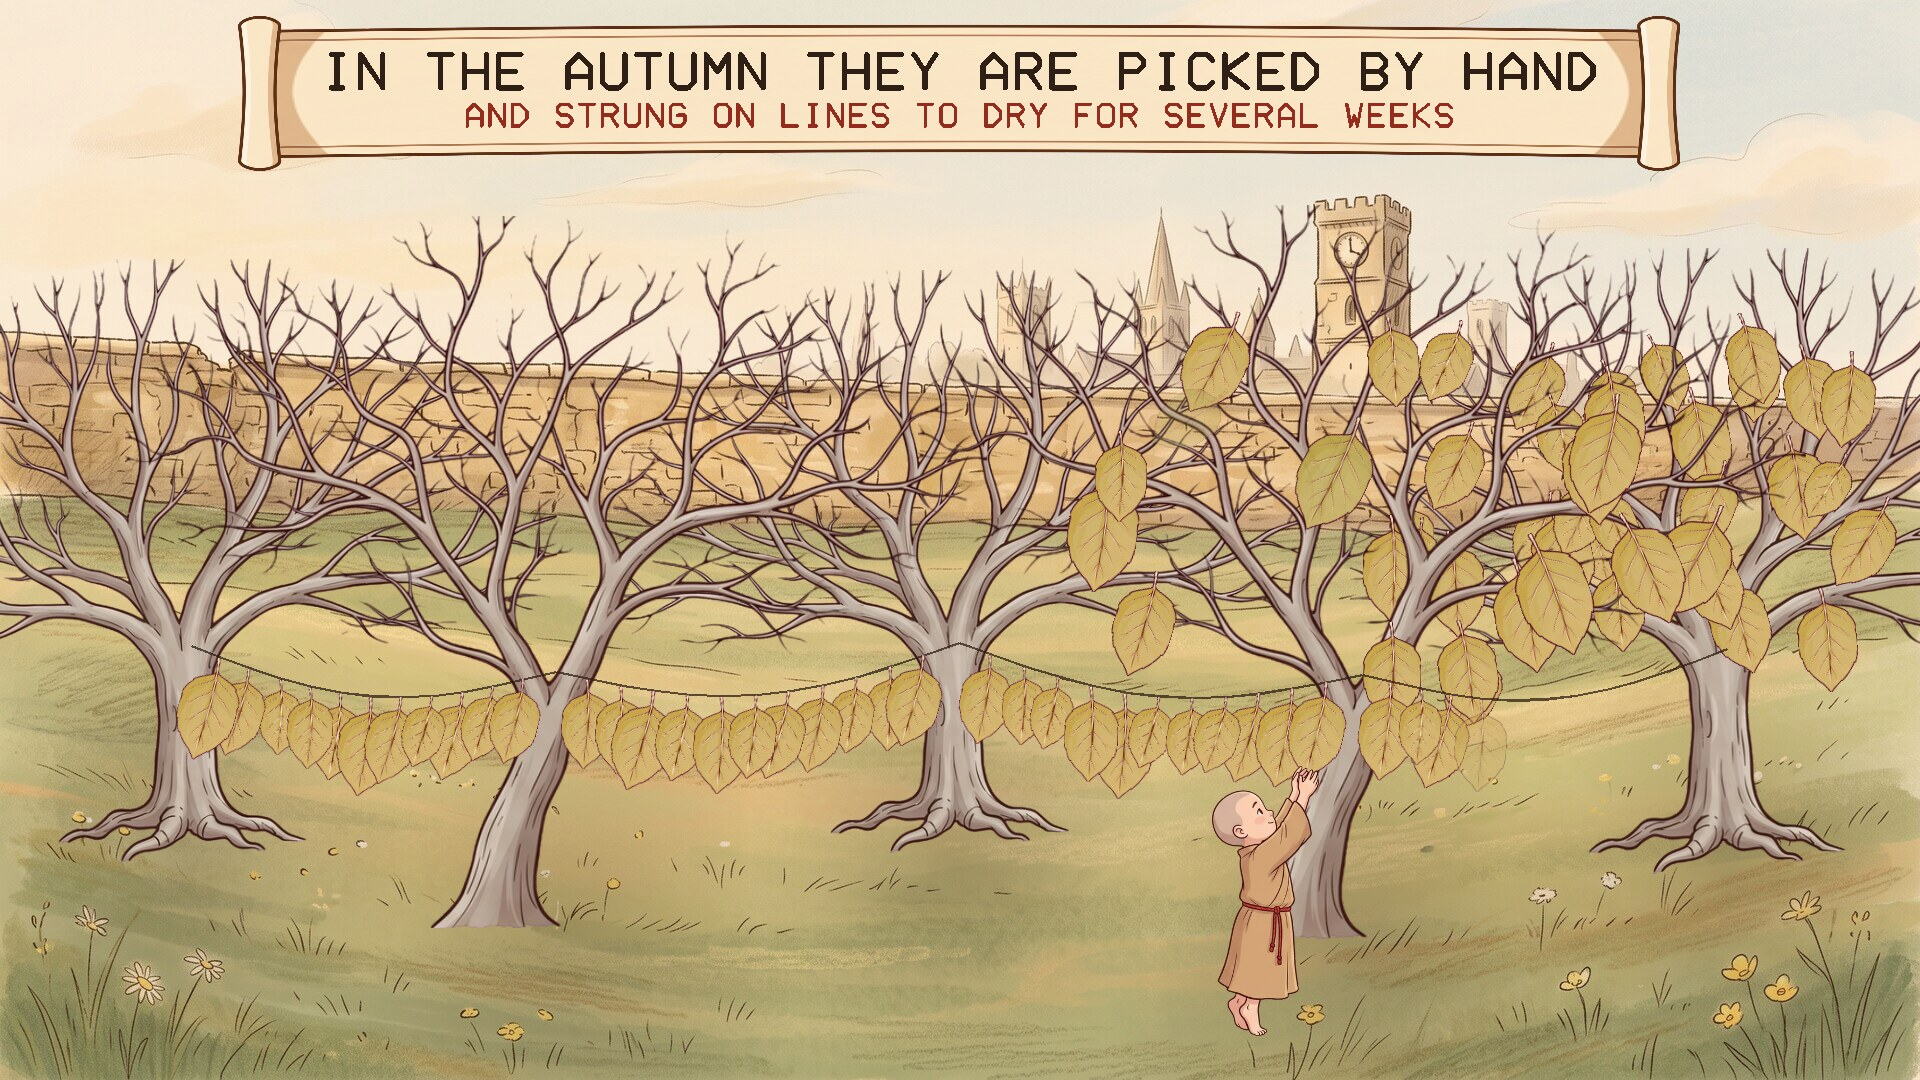
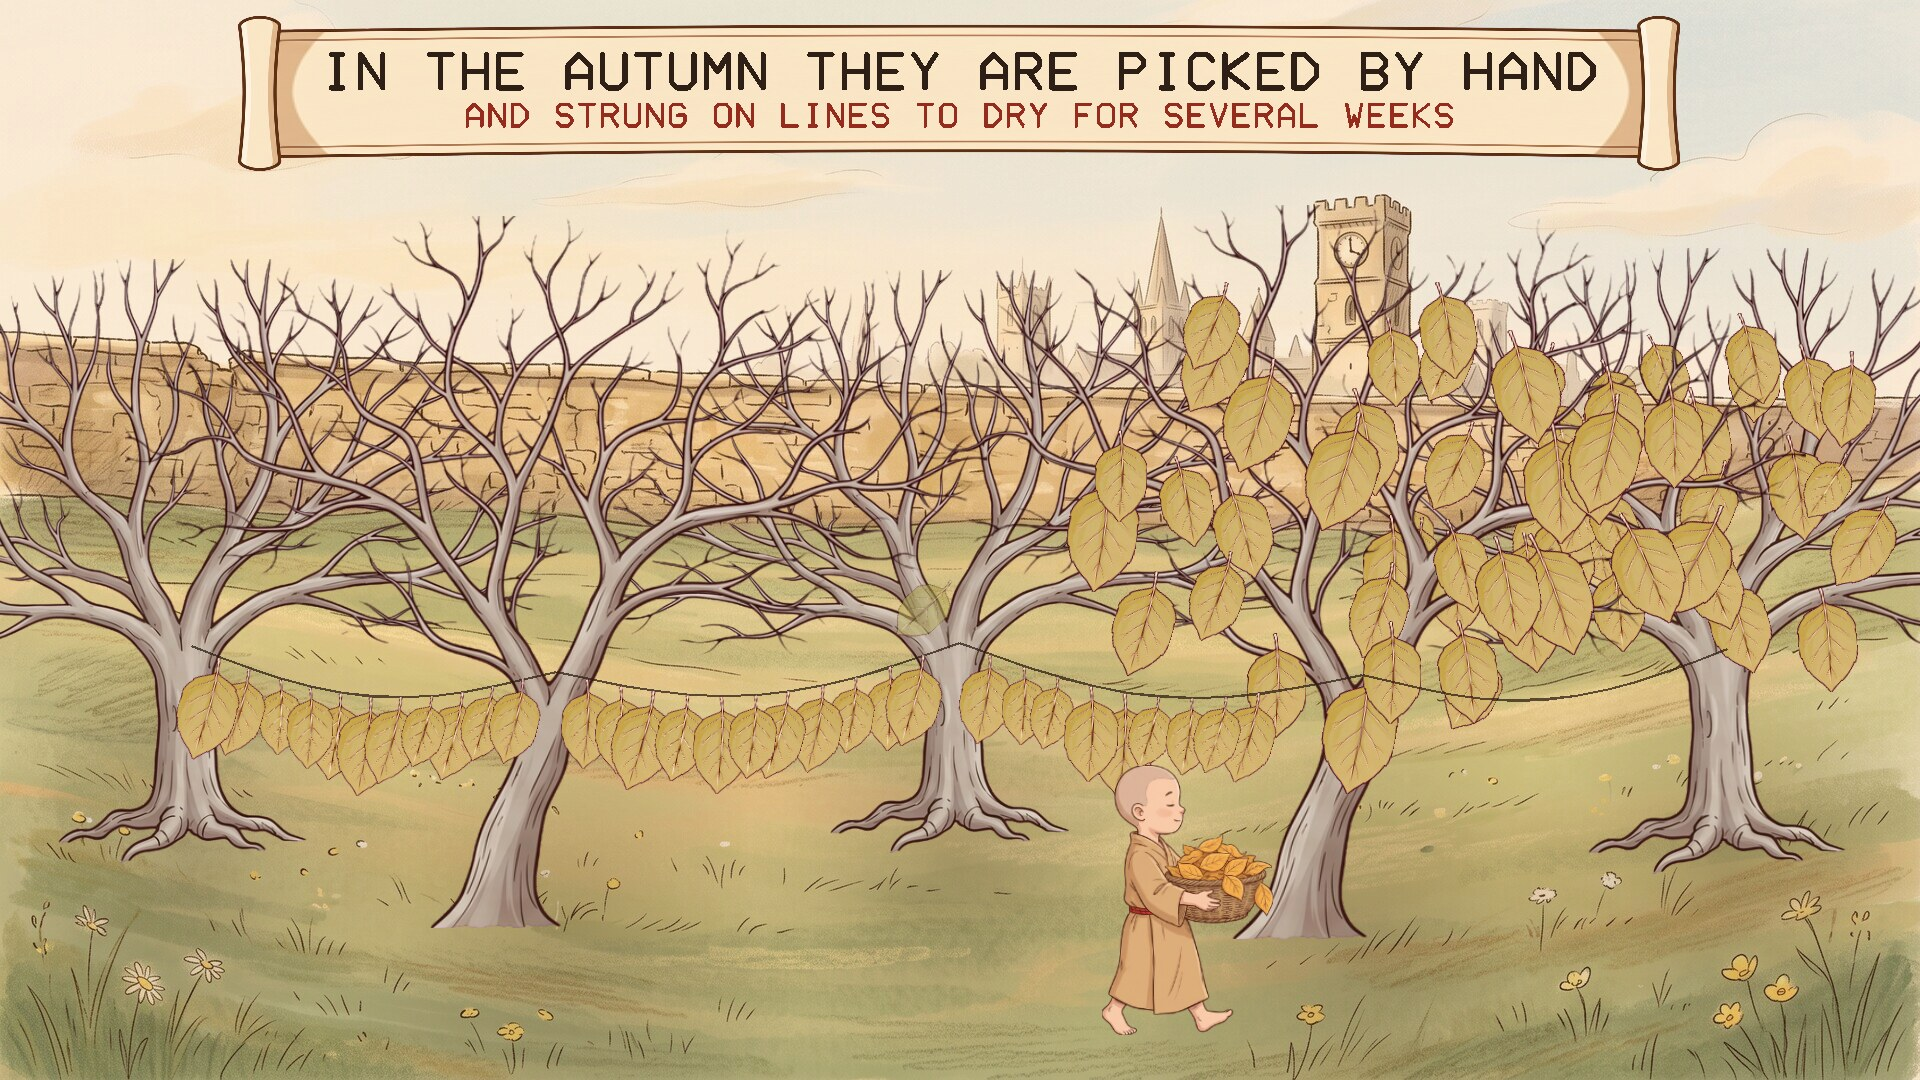
The fraa moves smoothly: fades between poses, a slower walk, no jumps

Changed region(s): [[0.5625, 0.275, 0.8438, 0.9778], [0.8438, 0.3667, 0.9062, 0.4583], [0.4688, 0.5194, 0.5, 0.6111]]

diff --git a/src/trees.c b/src/trees.c
@@ -247,12 +247,13 @@ static void text(const char *str, double cx, double y, double s, double weight, 
  *
  * A year takes YEAR seconds. It starts at the season it really is (taking the year
  * to begin with spring on the first of March, as in the north). */
-#define YEAR 150.0
+#define YEAR 190.0
 #define NTREE 5
 #define NL 34                 /* leaves on a tree */
 #define NLEAF (NTREE * NL)
 #define SLOTS 11              /* places on the line between one tree and the next */
 #define NFLAKE 110
+#define WALK 0.42            /* of the time he gives a tree, how much is the walk on to the next */
 typedef struct { double ax, ay, tilt, size, sway; int tree, order, slot; } Leaf;
 static Leaf leaf[NLEAF];
 static const double TX[NTREE] = {0.1, 0.29, 0.5, 0.71, 0.9};      /* where the trees stand, across */
@@ -268,7 +269,7 @@ static int opt_day = -1;      /* --date: begin at this day of the year instead o
 #define P_FULL 0.22
 #define P_TURN 0.40
 #define P_PICK 0.50
-#define P_PICKED 0.68
+#define P_PICKED 0.70
 #define P_DRY 0.80
 #define P_IN 0.84
 #define P_CUT 0.925
@@ -330,6 +331,18 @@ static void hang(int which, double x, double y, double tall, double deg, double 
     double w = tall * sprite[which].w / sprite[which].h;
     SDL_FRect dst = {(float)(x - w / 2), (float)y, (float)w, (float)tall};
     SDL_FPoint pivot = {(float)(w / 2), 0};
+    SDL_SetTextureAlphaMod(cur_tex[which], (Uint8)(fmin(alpha, 1) * 255));
+    SDL_RenderCopyExF(ren, cur_tex[which], NULL, &dst, deg, &pivot, SDL_FLIP_NONE);
+    SDL_SetTextureAlphaMod(cur_tex[which], 255);
+}
+/* the fraa, standing with his feet at (x, y), leaning `deg`, as faint as `alpha` */
+static void figure(int which, double x, double y, double tall, double deg, double alpha)
+{
+    flush(ren);
+    if (alpha <= 0.01 || !cur_tex || !cur_tex[which]) return;
+    double w = tall * sprite[which].w / sprite[which].h;
+    SDL_FRect dst = {(float)(x - w / 2), (float)(y - tall), (float)w, (float)tall};
+    SDL_FPoint pivot = {(float)(w / 2), (float)tall};
     SDL_SetTextureAlphaMod(cur_tex[which], (Uint8)(fmin(alpha, 1) * 255));
     SDL_RenderCopyExF(ren, cur_tex[which], NULL, &dst, deg, &pivot, SDL_FLIP_NONE);
     SDL_SetTextureAlphaMod(cur_tex[which], 255);
@@ -438,7 +451,9 @@ static void draw_scene(SDL_Renderer *r, int w, int h)
     flush(r);
 
     double wind = sin(anim_t * 0.31) * 0.6 + sin(anim_t * 0.13 + 1) * 0.4;
-    double picking = ramp(p, P_PICK, P_PICKED) * (NLEAF + 3);                /* how many leaves have been picked */
+    /* how many leaves have been picked: a tree's worth while he stands at it, none while he walks on */
+    double harvest = ramp(p, P_PICK, P_PICKED) * NTREE, picking;
+    { int t = (int)harvest; if (t >= NTREE) t = NTREE - 1; picking = (t + fmin((harvest - t) / (1 - WALK), 1)) * NL + (harvest >= NTREE ? 3 : 0); }
     int order_tree[NTREE] = {0, 2, 4, 1, 3};                           /* far trees first, near ones over them */
     for (int oi = 0; oi < NTREE; oi++) {
         int t = order_tree[oi];
@@ -475,16 +490,23 @@ static void draw_scene(SDL_Renderer *r, int w, int h)
         }
     }
     flush(r);
-    /* the fraa: admiring them in spring and summer, and picking in autumn */
-    if (p > P_BUD + 0.02 && p < P_PICK - 0.01) pic(SP_F_STAND, w * 0.4, h * 0.95, h * 0.25, 0.5, 1);
-    else if (p >= P_PICK - 0.01 && p < P_PICKED + 0.01) {
-        double f = ramp(p, P_PICK, P_PICKED) * NTREE;
-        int t = (int)f; if (t >= NTREE) t = NTREE - 1;
-        double part = f - t, x = TX[t] * w - h * 0.09, bob = fabs(sin(anim_t * 3)) * unit * 0.3, tall = h * 0.25;
-        if (part > 0.82 && t < NTREE - 1) {
-            x += (TX[t + 1] * w - TX[t] * w) * ease((part - 0.82) / 0.18);
-            pic(SP_F_CARRY, x, h * 0.96 - bob, tall, 0.5, 1);
-        } else pic(SP_F_REACH, x, h * 0.96 - (sin(anim_t * 2.2) > 0.6 ? unit * 0.6 : 0), tall, 0.5, 1);
+    /* The fraa: admiring the trees in spring and summer, and picking in autumn. He
+     * comes and goes, and changes from one thing to another, by fading, and every
+     * movement of his is a smooth one. */
+    {
+        double tall = h * 0.25, feet = h * 0.96;
+        double admiring = ease(ramp(p, P_BUD + 0.02, P_BUD + 0.035)) * (1 - ease(ramp(p, P_PICK - 0.03, P_PICK - 0.015)));
+        if (admiring > 0) figure(SP_F_STAND, w * 0.4, feet, tall, sin(anim_t * 0.5) * 1.2, admiring);
+        double here = ease(ramp(p, P_PICK - 0.012, P_PICK)) * (1 - ease(ramp(p, P_PICKED, P_PICKED + 0.012)));
+        if (here > 0) {
+            int t = (int)harvest; if (t >= NTREE) t = NTREE - 1;
+            double part = harvest - t, go = t < NTREE - 1 ? ramp(part, 1 - WALK, 1) : 0, x = (TX[t] + (t < NTREE - 1 ? (TX[t + 1] - TX[t]) * ease(go) : 0)) * w - h * 0.09;
+            double walking = ease(ramp(go, 0, 0.12)) * (1 - ease(ramp(go, 0.88, 1)));          /* how much he is the walker and not the picker */
+            double step = anim_t * 4.2, bob = (1 - cos(2 * step)) * 0.5 * unit * 0.22;           /* a gentle rise and fall, with no corners in it */
+            double stretch = (0.5 + 0.5 * sin(anim_t * 1.5)) * unit * 0.45;                      /* up on his toes and down again */
+            if (walking < 1) figure(SP_F_REACH, x, feet - stretch * (1 - walking), tall, 0, here * (1 - walking));
+            if (walking > 0) figure(SP_F_CARRY, x, feet - bob * walking, tall, sin(step) * 1.5 * walking, here * walking);
+        }
     }
     flush(r);
     if (winter > 0) for (int i = 0; i < NFLAKE; i++) /* snow */

diff --git a/README.md b/README.md
@@ -21,7 +21,7 @@ from the trunk.
 
 ## What the screensaver shows
 
-One grove, and a year going by in two and a half minutes. It begins at the season
+One grove, and a year going by in about three minutes. It begins at the season
 it really is where you are (taking spring to start in March).
 
 | | |
@@ -51,7 +51,7 @@ Packages are on the [releases page](../../releases).
 
 ### Windows
 
-Run `PageTrees-Setup-1.0.0.exe`. It asks for administrator rights, because Windows
+Run `PageTrees-Setup-1.0.1.exe`. It asks for administrator rights, because Windows
 only lists screensavers that are in its own system folder. After that "The Page Trees" is in Screen Saver Settings with the others, already selected. Uninstall from
 Apps.
 
@@ -59,11 +59,11 @@ Apps.
 
 **Fedora, Nobara** (built on Fedora 44):
 
-    sudo dnf install ./page-trees-1.0.0-1.fc44.x86_64.rpm
+    sudo dnf install ./page-trees-1.0.1-1.fc44.x86_64.rpm
 
 **Debian, Ubuntu, Mint** (Ubuntu 24.04 / Debian 13 or later):
 
-    sudo apt install ./page-trees_1.0.0_amd64.deb
+    sudo apt install ./page-trees_1.0.1_amd64.deb
 
 From your next login it starts by itself after five minutes idle, and any key or
 mouse movement ends it. To start the watcher without logging out, or to change the
